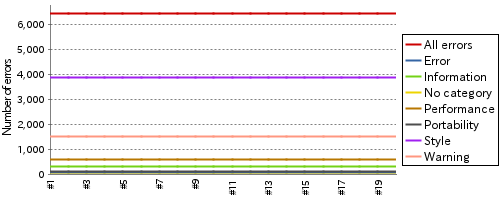
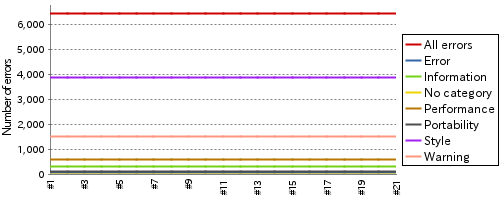
update report

diff --git a/index.md b/index.md
@@ -2,7 +2,7 @@
 layout: default
 ---
 # Jenkins CI report For HRG
-## Build and test report (2015/07/03 04:28:34)
+## Build and test report (2015/07/03 05:28:29)
 ### Build Status
 ___
 ![Build Status](http://jenkinshrg.github.io/images/badge.svg)
@@ -31,12 +31,13 @@ UNSTABLE
 * Stability
   
 ![Jenkins Icon](http://jenkinshrg.github.io/images/48x48/health-00to19.png)
-15%
+14%
   
 * Latest Results
   
 |Status|Time|Duration|Changes|Build|Test|Note|
 |---|---|---|---|---|---|---|
+|![Jenkins Icon](http://jenkinshrg.github.io/images/24x24/yellow.png)UNSTABLE|2015/07/03 05:00|28 min.||[BUILD](https://drive.google.com/file/d/0B54sHwaxmuM4Uk5ONGxHcjFaa0U/view?usp=drivesdk) |[CONSOLE](https://drive.google.com/file/d/0B54sHwaxmuM4eUNud3l3ZmJfZFE/view?usp=drivesdk) [IMAGE](https://drive.google.com/file/d/0B54sHwaxmuM4NnU2N051NjYyWWc/edit?usp=drivesdk) [VIDEO](https://drive.google.com/file/d/0B54sHwaxmuM4aUhVRHVMbDBSYnM/edit?usp=drivesdk) |STOP RED|
 |![Jenkins Icon](http://jenkinshrg.github.io/images/24x24/yellow.png)UNSTABLE|2015/07/03 04:00|28 min.||[BUILD](https://drive.google.com/file/d/0B54sHwaxmuM4MWhYUk9aclVWMTg/view?usp=drivesdk) |[CONSOLE](https://drive.google.com/file/d/0B54sHwaxmuM4WjNHd2JfQ004Z3c/view?usp=drivesdk) [IMAGE](https://drive.google.com/file/d/0B54sHwaxmuM4RHhaWTRPY1NObk0/edit?usp=drivesdk) [VIDEO](https://drive.google.com/file/d/0B54sHwaxmuM4b0dhN0N3MGUtS2s/edit?usp=drivesdk) |STOP NORMAL|
 |![Jenkins Icon](http://jenkinshrg.github.io/images/24x24/yellow.png)UNSTABLE|2015/07/03 03:00|28 min.||[BUILD](https://drive.google.com/file/d/0B54sHwaxmuM4cFZwNEZwU1VDNlE/view?usp=drivesdk) |[CONSOLE](https://drive.google.com/file/d/0B54sHwaxmuM4T01Cb2xySWJ5MFk/view?usp=drivesdk) [IMAGE](https://drive.google.com/file/d/0B54sHwaxmuM4akY2V2RhU2owT2s/edit?usp=drivesdk) [VIDEO](https://drive.google.com/file/d/0B54sHwaxmuM4cTZ4NnZzNkN3UU0/edit?usp=drivesdk) |STOP NORMAL|
 |![Jenkins Icon](http://jenkinshrg.github.io/images/24x24/yellow.png)UNSTABLE|2015/07/03 02:00|28 min.||[BUILD](https://drive.google.com/file/d/0B54sHwaxmuM4UUFDYUViOGczVUk/view?usp=drivesdk) |[CONSOLE](https://drive.google.com/file/d/0B54sHwaxmuM4SW13RjhmSlZPZ3c/view?usp=drivesdk) [IMAGE](https://drive.google.com/file/d/0B54sHwaxmuM4RmdMTlI5RENPNEk/edit?usp=drivesdk) [VIDEO](https://drive.google.com/file/d/0B54sHwaxmuM4NEdVSFNPbFZGUDA/edit?usp=drivesdk) |STOP RED|
